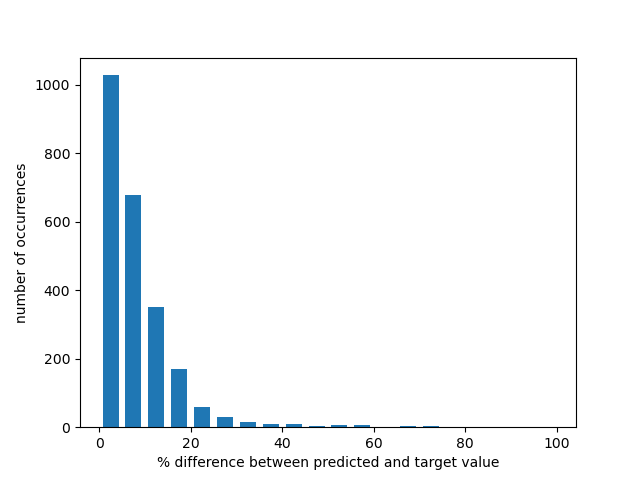
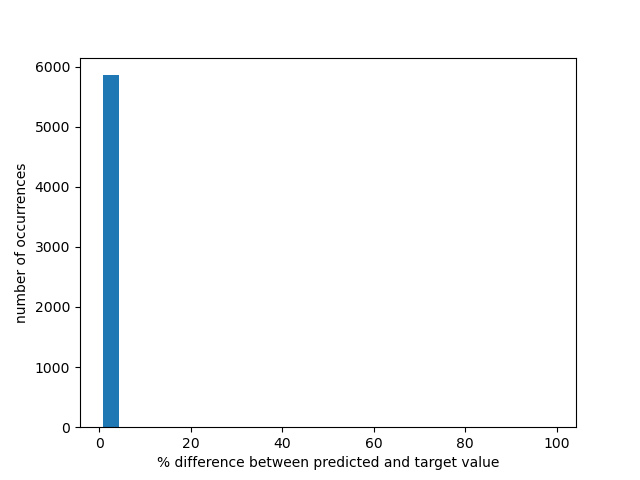
minor changes for figure generation

diff --git a/dynamicspredictstates.py b/dynamicspredictstates.py
@@ -287,9 +287,9 @@ class simdata(Dataset):
         self.root_dir = root_dir
 
         # load npy files
-        actions = np.load(root_dir+'/actions.npy')
-        states = np.load(root_dir+'/states.npy')
-        deltas = np.load(root_dir+'/deltas.npy')
+        actions = np.load(root_dir+'/actions3.npy')
+        states = np.load(root_dir+'/states3.npy')
+        deltas = np.load(root_dir+'/deltas3.npy')
         # turn them to tensors
         actions = torch.from_numpy(actions)
         actions = actions.type(torch.float64)
@@ -471,7 +471,7 @@ plt.close()
 
 correct = 0
 total = 0
-diffpercent = 0.05
+diffpercent = 0.01
 model.eval()  # prep model for testing
 
 # validation set here
@@ -498,7 +498,7 @@ print('Accuracy of the network on the test set: %d %%' % ((100 * correct / total
 
 diffFig = plt.figure()
 ax1 = diffFig.add_subplot()
-ax1.hist(diffs, 20, (0, 100))
+ax1.hist(diffs, 20, (0, 100), rwidth=0.7)
 ax1.set_xlabel("% difference between predicted and target value")
 ax1.set_ylabel("number of occurrences")
 plt.savefig('diffpercentstates.png')

diff --git a/dynamicspredict.py b/dynamicspredict.py
@@ -465,7 +465,7 @@ plt.close()
 
 correct = 0
 total = 0
-diffpercent = 0.001
+diffpercent = 0.01
 model.eval()  # prep model for testing
 
 # validation set here
